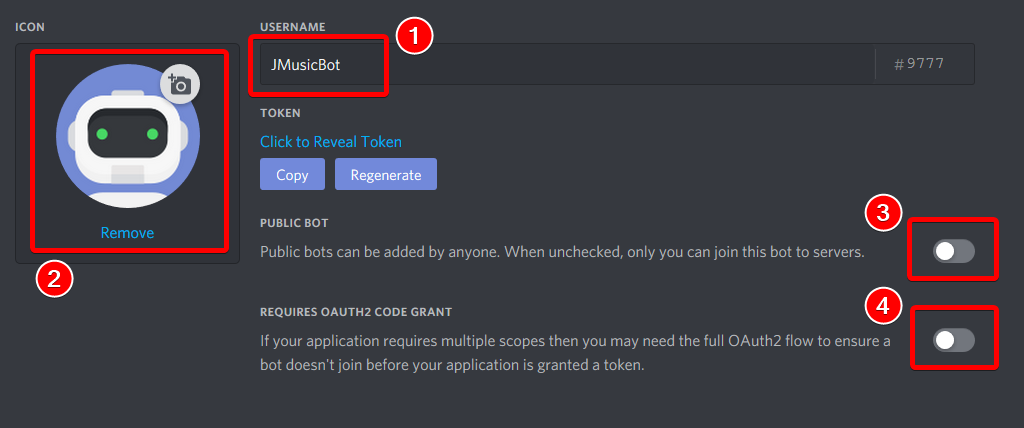
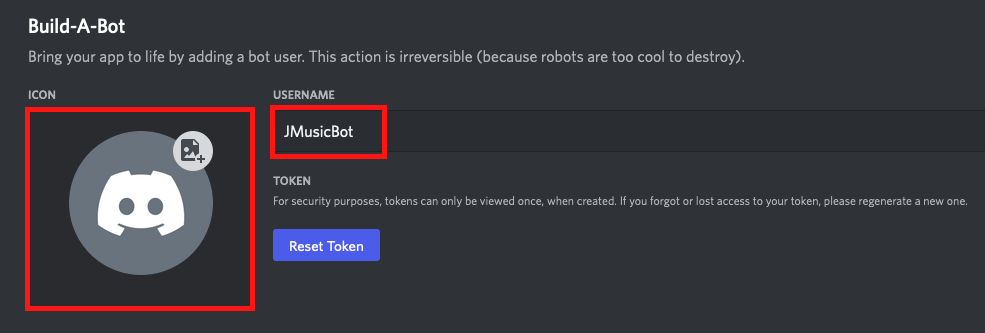
Move "uncheck public bot" step with intents step

Changed region(s): [[0.0, 0.03, 1.0, 0.9309], [0.8832, 0.1201, 0.9137, 0.1502]]

diff --git a/docs/getting-a-bot-token.md b/docs/getting-a-bot-token.md
@@ -19,15 +19,15 @@ This page will describe, in detail, how to obtain a token for your music bot.
 5. Click *Yes, do it!*  
 ![Yes](/assets/images/yes-do-it.png)
 
-6. Set a name, an avatar (optional), and make sure bot checkboxes are **unchecked**  
+6. Set a name and an avatar (optional)
 ![Settings](/assets/images/customize-bot.png)
+
+7. Uncheck **Public Bot** and Check **Message Content Intent** and **Server Members Intents**
+![Message Content Intent](/assets/images/oauth-and-intents.png)
 
 !!! warning
     If **Public Bot** is left checked, anyone will be able to invite your bot into servers. JMusicBot is not
     intended to be used as a public music bot, and **will break on verified bots!**
-
-7. Check **Message Content Intent** and **Server Members Intents**
-![Message Content Intent](/assets/images/privileged-intents.png)
 
 8. Save your settings  
 ![Save](/assets/images/save-changes.png)
